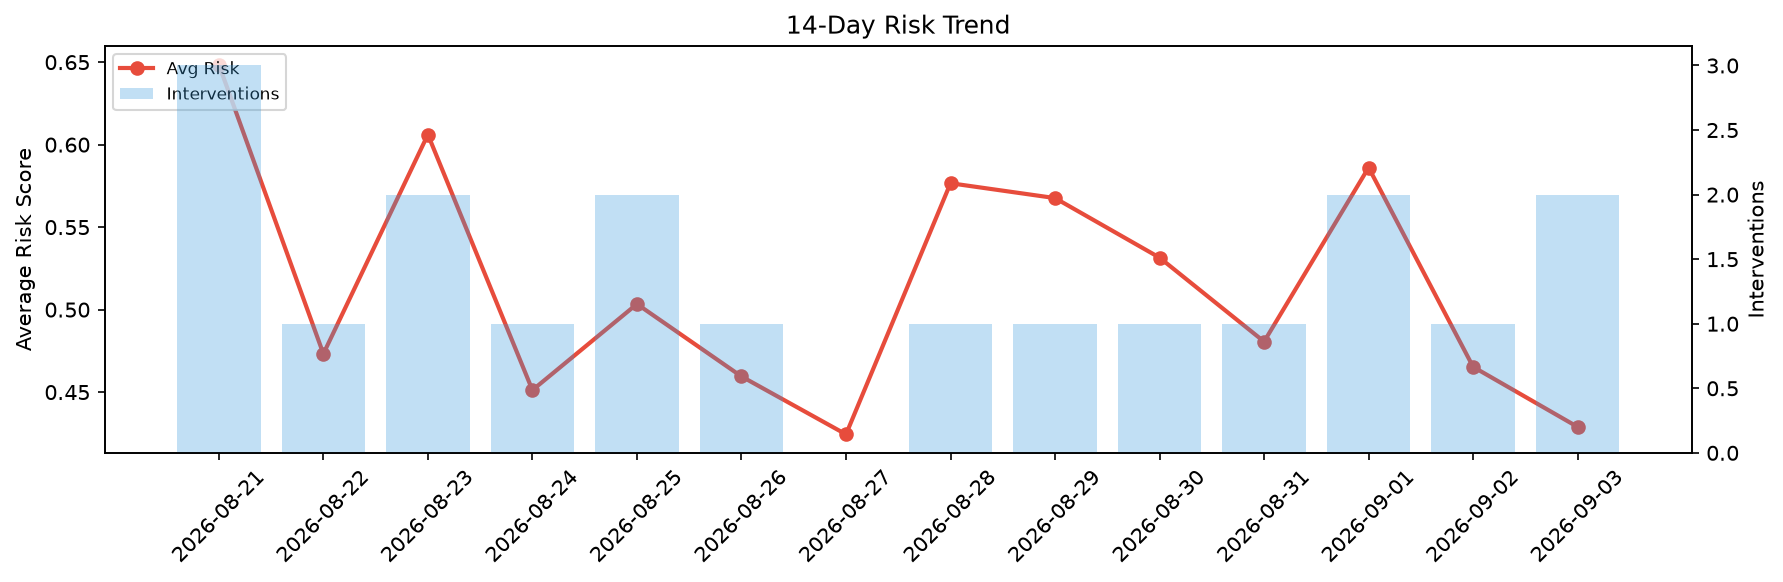
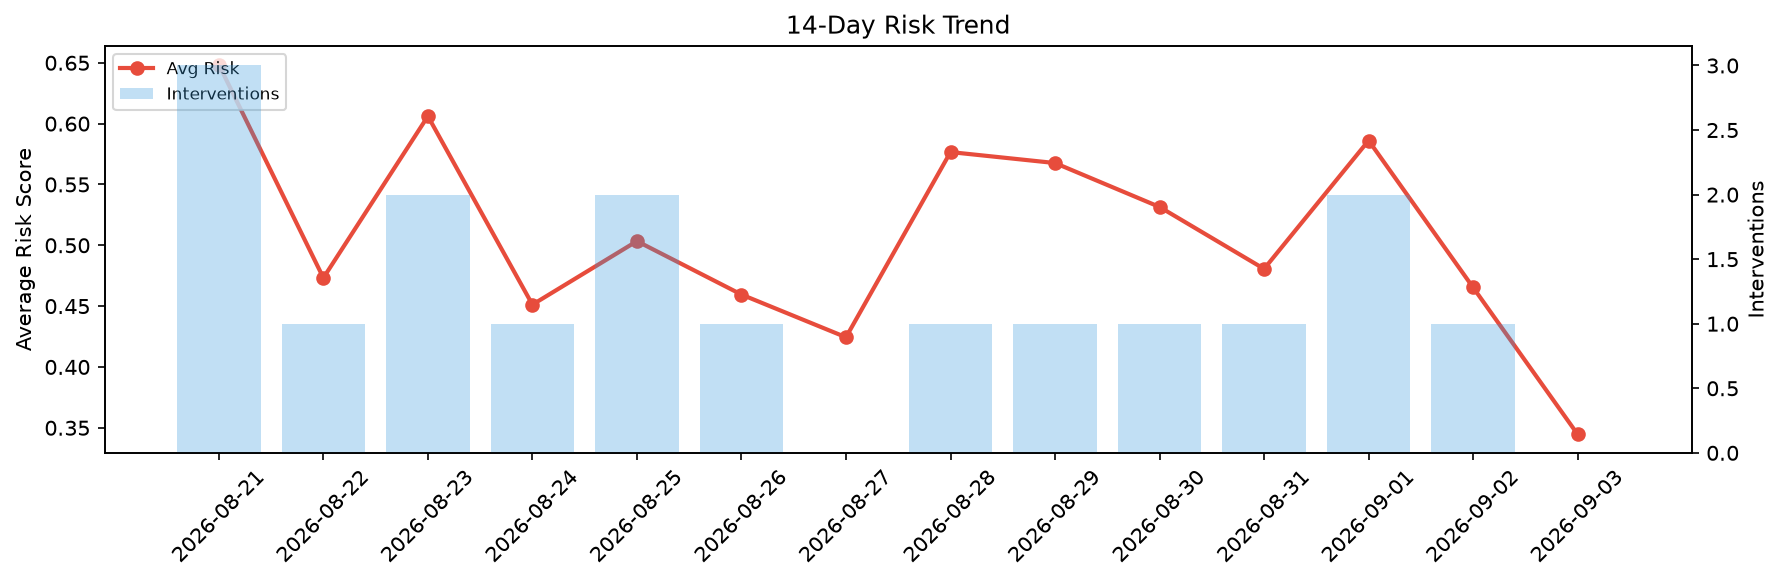
agent-improvement: daily cycle 2026-09-03T12:49

diff --git a/logs/2026-09-03.md b/logs/2026-09-03.md
@@ -1,6 +1,6 @@
 # Agent Improvement Report — 2026-09-03
 
-**Cycle ID:** `f4e5192a` | **Avg Risk:** 0.4289 | **Interventions:** 2/4
+**Cycle ID:** `de36d837` | **Avg Risk:** 0.3446 | **Interventions:** 0/4
 
 ![Dashboard](2026-09-03_dashboard.png)
 
@@ -10,18 +10,18 @@
 
 | Domain | Risk Score | Decision | Alerts |
 |--------|-----------|----------|--------|
-| code_review | 0.1544 | monitor | none |
-| incident_response | 0.613 | intervene | severity |
-| data_pipeline | 0.2947 | monitor | none |
-| deployment | 0.6536 | intervene | none |
+| code_review | 0.3862 | monitor | none |
+| incident_response | 0.3135 | monitor | none |
+| data_pipeline | 0.348 | monitor | none |
+| deployment | 0.3306 | monitor | none |
 
 ## Delta vs Yesterday
 
 | Domain | Today | Yesterday | Change |
 |--------|-------|-----------|--------|
-| code_review | 0.1544 | 0.5903 | 📉 -73.8% |
-| incident_response | 0.613 | 0.2737 | 📈 124.0% |
-| data_pipeline | 0.2947 | 0.6118 | 📉 -51.8% |
-| deployment | 0.6536 | 0.3853 | 📈 69.6% |
+| code_review | 0.3862 | 0.5903 | 📉 -34.6% |
+| incident_response | 0.3135 | 0.2737 | 📈 14.5% |
+| data_pipeline | 0.348 | 0.6118 | 📉 -43.1% |
+| deployment | 0.3306 | 0.3853 | 📉 -14.2% |
 
-**Refinement:** `{'adjustment': 'tighten_thresholds', 'trend': 'degrading', 'window': 4}`
+**Refinement:** `{'adjustment': 'maintain', 'trend': 'improving', 'window': 4}`
